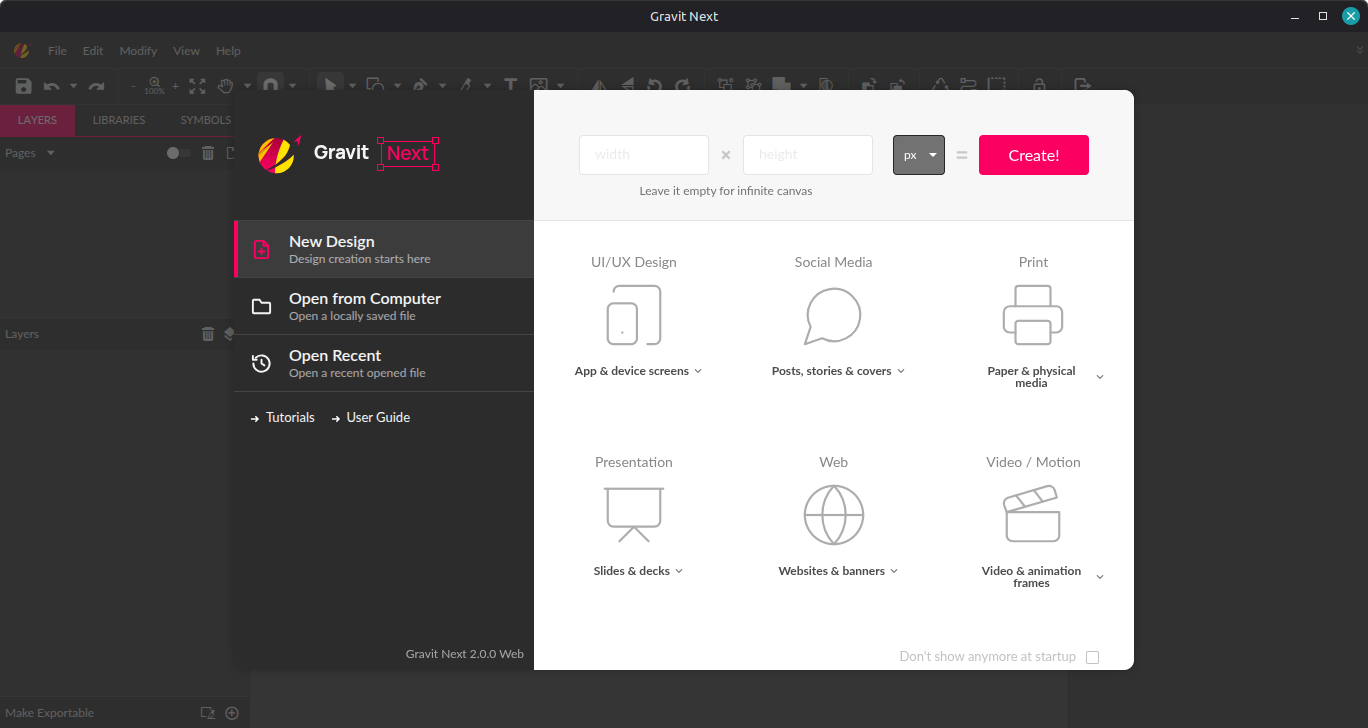
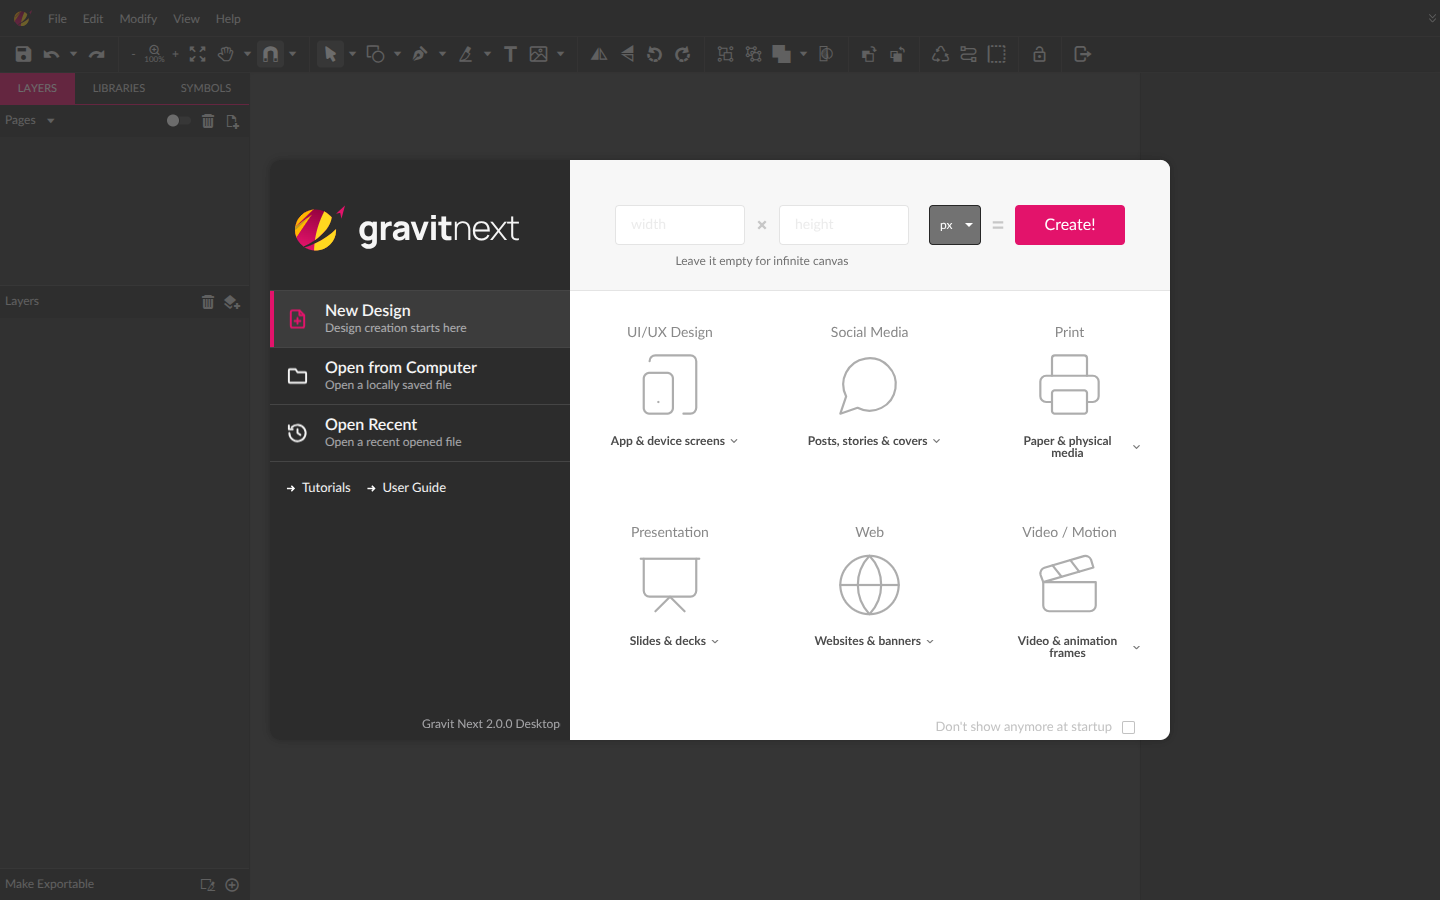
feat: the new gravitnext wordmark in the app and the README
- The welcome screen and the intro dialog show the emblem with the lower case
  "gravit" (bold) and "next" (light) wordmark instead of the boxed Gravit Next.
- The README starts with the new logo (a light and a dark version) and a new
  screenshot of the desktop welcome screen.

diff --git a/public/brand/next.css b/public/brand/next.css
@@ -22,11 +22,6 @@ html[data-branding="next"] {
   --gd-olive: #6e9a34;
   --gd-ink: #2c2c2c;
   --gd-light-ink: #f5f5f5;
-  /* What sits behind a wordmark: the selection handles are filled with it. */
-  --gd-tile: #ffffff;
-}
-html[data-branding="next"][data-gd-theme="dark"] {
-  --gd-tile: #3a3a3a;
 }
 
 /* The loading screen (the mark on ink instead of the old pink) is inline
@@ -42,15 +37,15 @@ html[data-branding="next"][data-gd-theme="dark"] {
 }
 .gd-lockup .gd-mark {
   flex: none;
-  width: 48px;
-  height: 48px;
+  width: 56px;
+  height: 56px;
 }
 .gd-word {
   display: inline-flex;
   align-items: baseline;
   white-space: nowrap;
   font-family: "Manrope", system-ui, sans-serif;
-  font-size: 19px;
+  font-size: 34px;
   letter-spacing: -0.02em;
   line-height: 1.2;
 }
@@ -58,47 +53,12 @@ html[data-branding="next"][data-gd-theme="dark"] {
   font-weight: 800;
 }
 .gd-word > span {
-  font-weight: 400;
-}
-.gd-word > .gd-next {
-  position: relative;
-  margin-left: 12px;
-  padding: 0 5px;
-  align-self: center;
-  border: 1.5px solid var(--gd-magenta);
-  color: var(--gd-magenta);
-  font-weight: 600;
-  letter-spacing: -0.01em;
-  line-height: 1.25;
-}
-.gd-word .gd-handle {
-  position: absolute;
-  width: 5px;
-  height: 5px;
-  background: var(--gd-tile);
-  border: 1.5px solid var(--gd-magenta);
-}
-.gd-word .gd-tl {
-  left: -5px;
-  top: -5px;
-}
-.gd-word .gd-tr {
-  right: -5px;
-  top: -5px;
-}
-.gd-word .gd-bl {
-  left: -5px;
-  bottom: -5px;
-}
-.gd-word .gd-br {
-  right: -5px;
-  bottom: -5px;
+  font-weight: 300;
 }
 
 /* ---- Welcome screen: the brand panel instead of the pink gradient. ---- */
 
 html[data-branding="next"] .g-dialog.g-new-document-dialog > .g-dialog-content > .sidebar {
-  --gd-tile: var(--gd-ink);
   background-color: var(--gd-ink);
   background-image: none;
   color: var(--gd-light-ink);
@@ -243,8 +203,11 @@ html[data-branding="next"] #header > .section.menu {
   margin-bottom: 18px;
 }
 .gd-intro .gd-intro-lockup .gd-mark {
-  width: 44px;
-  height: 44px;
+  width: 50px;
+  height: 50px;
+}
+.gd-intro .gd-intro-lockup .gd-word {
+  font-size: 30px;
 }
 .gd-intro .gd-intro-title {
   margin: 0 0 10px;

diff --git a/src/app/brand/brand-mark.tsx b/src/app/brand/brand-mark.tsx
@@ -1,7 +1,7 @@
 /**
  * The Gravit Next mark and wordmark (public/brand/mark.svg drawn
- * inline; it has the same colours on light and dark). The wordmark is "Gravit" bold and "Next" in a
- * selection box with four corner handles; next.css styles it.
+ * inline; it has the same colours on light and dark). The wordmark is "gravit" bold and "next" light,
+ * lower case, in the colour of the text around it; next.css styles it.
  */
 import { useId, type ReactNode } from "react";
 
@@ -60,18 +60,12 @@ export function BrandMark({ className = "gd-mark" }: { className?: string }): Re
   );
 }
 
-/** "Gravit" [Next]: the wordmark, as text (Manrope, next.css). */
+/** "gravit" bold and "next" light, as text (Manrope, next.css). */
 export function BrandWordmark(): ReactNode {
   return (
     <span className="gd-word" aria-label="Gravit Next">
-      <b>Gravit</b>
-      <span className="gd-next">
-        Next
-        <span className="gd-handle gd-tl" />
-        <span className="gd-handle gd-tr" />
-        <span className="gd-handle gd-bl" />
-        <span className="gd-handle gd-br" />
-      </span>
+      <b>gravit</b>
+      <span>next</span>
     </span>
   );
 }

diff --git a/src/app/brand/brand-mark.test.tsx b/src/app/brand/brand-mark.test.tsx
@@ -41,13 +41,11 @@ describe("brand mark", () => {
     expect(shapes(renderToStaticMarkup(<BrandMark />))).toEqual(shapes(file));
   });
 
-  it("lays out the wordmark: Gravit bold, Next in a box with four handles", () => {
+  it("lays out the wordmark: gravit bold and next light, lower case, no box", () => {
     const html = renderToStaticMarkup(<BrandLockup className="x" />);
     expect(html).toMatch(/^<div class="gd-lockup x"><svg class="gd-mark"/);
     expect(html).toContain(
-      '<span class="gd-word" aria-label="Gravit Next"><b>Gravit</b>' +
-        '<span class="gd-next">Next<span class="gd-handle gd-tl"></span><span class="gd-handle gd-tr"></span>' +
-        '<span class="gd-handle gd-bl"></span><span class="gd-handle gd-br"></span></span></span></div>',
+      '<span class="gd-word" aria-label="Gravit Next"><b>gravit</b><span>next</span></span></div>',
     );
   });
 });

diff --git a/README.md b/README.md
@@ -1,9 +1,11 @@
 <p align="center">
   <picture>
-    <source media="(prefers-color-scheme: dark)" srcset="docs/readme/banner-dark.png" />
-    <img src="docs/readme/banner-light.png" alt="Gravit Next" width="820" />
+    <source media="(prefers-color-scheme: dark)" srcset="docs/readme/logo-dark.png" />
+    <img src="docs/readme/logo-light.png" alt="Gravit Next" width="460" />
   </picture>
 </p>
+
+<p align="center">A free, offline vector design app that opens your Gravit Designer files.</p>
 
 <p align="center">
   <a href="https://github.com/GravitDesign/designer/releases"><img src="https://img.shields.io/badge/download-desktop%20app-E3136B?style=flat-square" alt="Download the desktop app" /></a>
